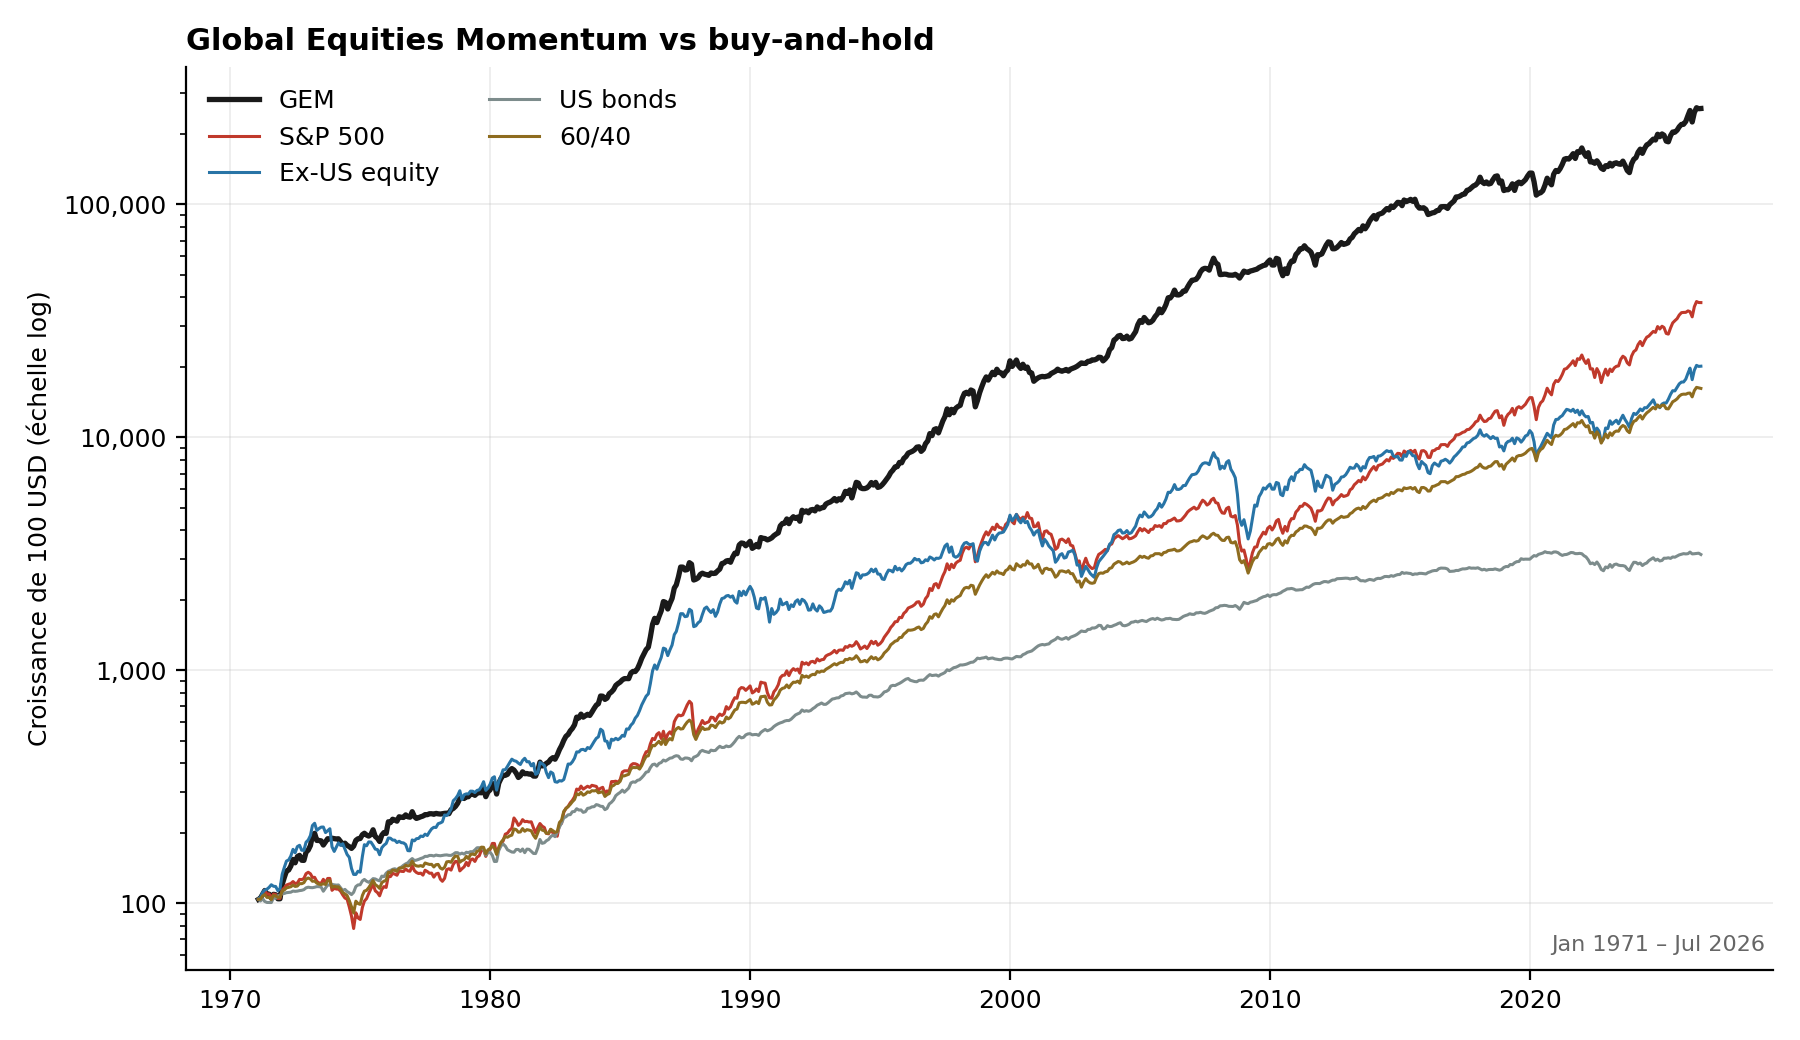
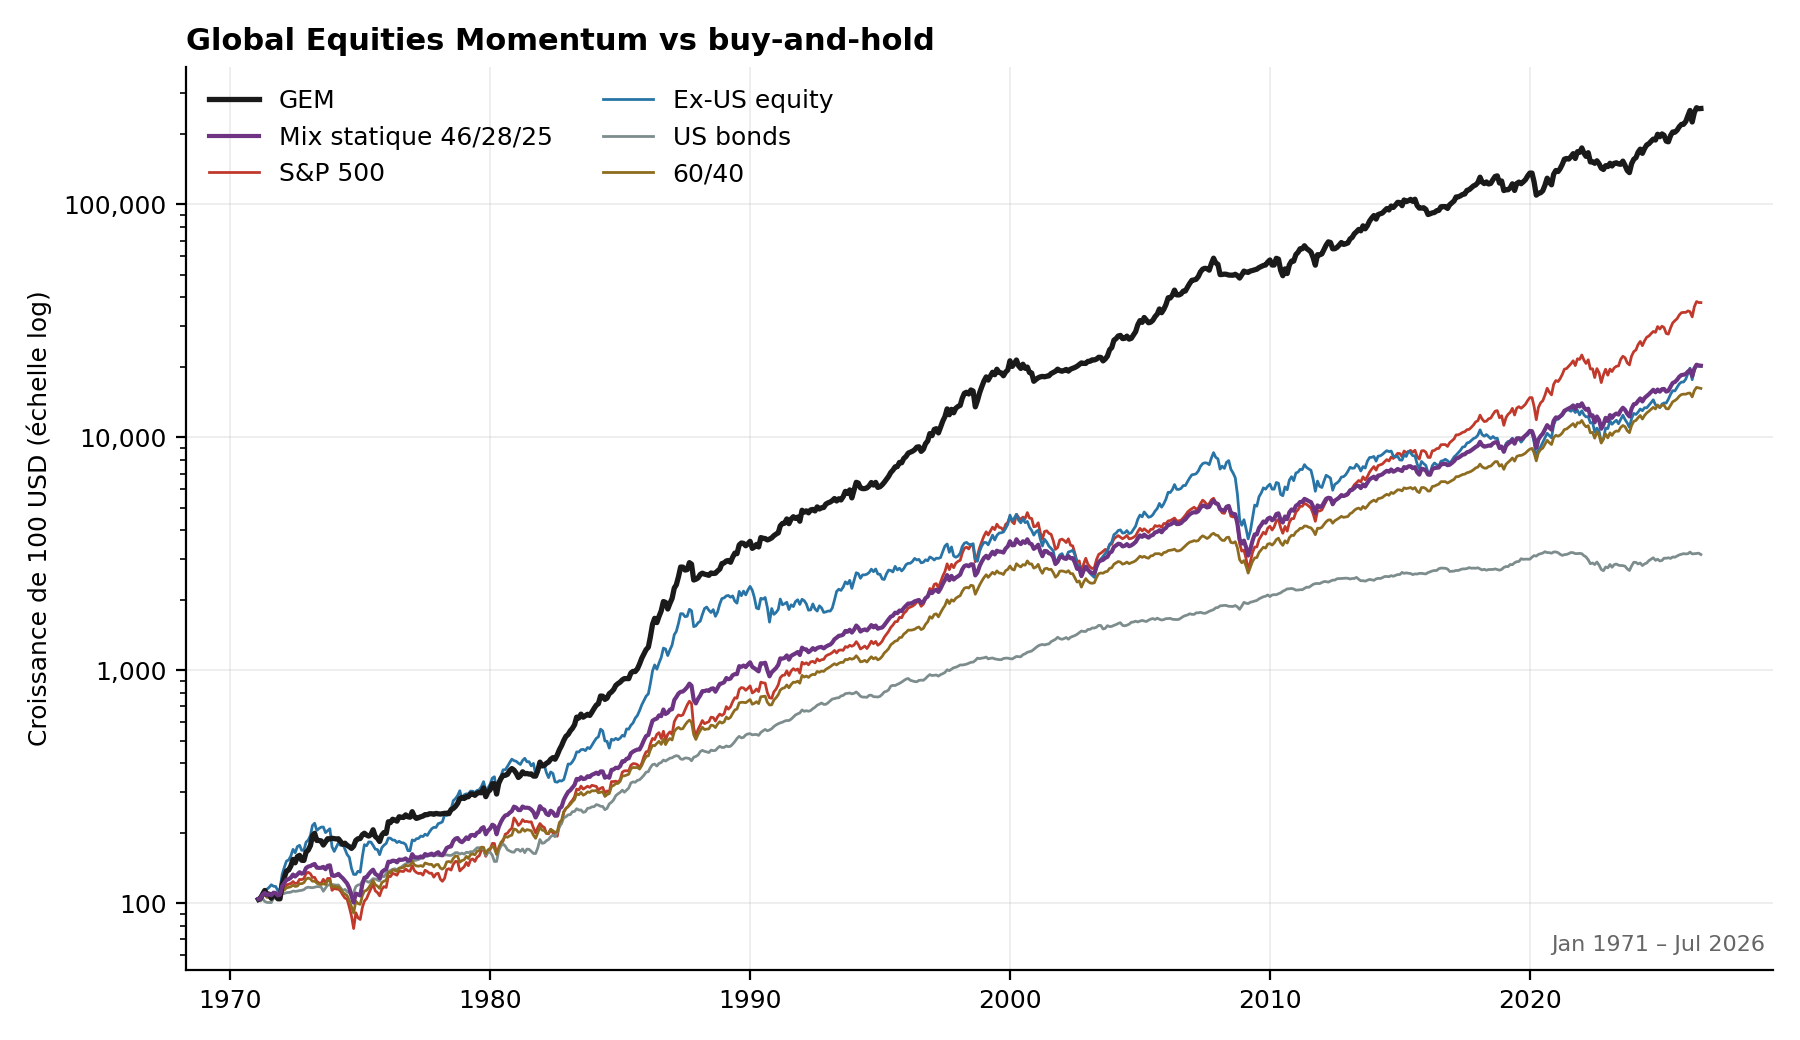
Ajout d'un benchmark statique à allocation équivalente
Sépare l'effet allocation de l'effet timing, comme le benchmark GAA de
l'article d'Antonacci.

- static_mix() : portefeuille à poids fixes rebalancé mensuellement.
- Les poids sont dérivés du backtest (46/28/25), pas codés en dur, donc ils
  suivent automatiquement tout changement de règle, de lookback ou d'échantillon.
- Ajout du GAA 45/28/27 d'Antonacci pour comparabilité avec l'article.
- Nouvelle table 07_allocation_vs_timing.csv et courbe dédiée sur la figure 1.

Résultat : le mix statique rend 10,03 %, soit 124 bps de moins que le S&P 500.
Le panier d'actifs est donc un handicap sur la période, et la totalité des
+391 bps de GEM vient du timing (+515 bps bruts, dont 124 servent à effacer le
handicap). Le drawdown se partage en revanche : -9,0 pt dus à l'allocation,
-20,3 pt de plus dus au timing.

Claude-Session: https://claude.ai/code/session_017MFJd7iz2jqCRjfZwTnaNv

diff --git a/src/gem_backtest.py b/src/gem_backtest.py
@@ -204,6 +204,22 @@ def run_rule(prices, decide, lookback=LOOKBACK, cost_bps=COST_BPS):
     return pd.Series(out, index=dates), pd.Series(held, index=dates)
 
 
+def static_mix(prices, weights, index=None):
+    """Fixed-weight portfolio, rebalanced every month.
+
+    The point of this benchmark is to hold GEM's *average* asset mix while doing
+    none of its timing. Whatever it earns is the part of GEM's return that came
+    from simply being diversified across those three assets; the remainder is
+    what the monthly switching actually added.
+    """
+    rets = prices.pct_change()
+    if index is not None:
+        rets = rets.reindex(index)
+    total = float(sum(weights.values()))
+    mix = sum(rets[asset] * (w / total) for asset, w in weights.items())
+    return mix.dropna()
+
+
 def gem_rule(row):
     """Dual momentum: absolute filter, then relative selection."""
     if row["US"] > row["TBILL"]:
@@ -229,8 +245,11 @@ def fig_equity(curves, path):
     fig, ax = plt.subplots(figsize=(9, 5.2))
     for name, r in curves.items():
         equity = 100 * (1 + r).cumprod()
+        emphasis = name == "GEM" or name.startswith("Mix statique")
         ax.plot(equity.index, equity.values, label=name,
-                color=COLORS.get(name), linewidth=1.9 if name == "GEM" else 1.1)
+                color=COLORS.get(name), linewidth=1.9 if name == "GEM"
+                else (1.5 if emphasis else 1.0),
+                zorder=3 if emphasis else 2)
     ax.set_yscale("log")
     ax.set_ylabel("Croissance de 100 USD (échelle log)")
     ax.set_xlabel("")
@@ -349,17 +368,35 @@ def main():
     bench = rets["US"]
     sixty_forty = (0.6 * rets["US"] + 0.4 * rets["BOND"])
 
+    # Static benchmark carrying GEM's own average allocation. Weights are read
+    # off the backtest rather than hard-coded, so they stay correct if the rule,
+    # the lookback or the sample ever changes.
+    shares = held.value_counts(normalize=True)
+    weights = {a: float(shares.get(a, 0.0)) for a in ("US", "EXUS", "BOND")}
+    matched = static_mix(prices, weights, index=gem.index)
+    matched_label = "Mix statique %d/%d/%d" % tuple(
+        round(weights[a] * 100) for a in ("US", "EXUS", "BOND"))
+
+    # Antonacci's own Global Asset Allocation benchmark, for comparability with
+    # the published article.
+    gaa = static_mix(prices, {"US": 0.45, "EXUS": 0.28, "BOND": 0.27},
+                     index=gem.index)
+
     curves = {
         "GEM": gem,
+        matched_label: matched,
         "S&P 500": bench,
         "Ex-US equity": rets["EXUS"],
         "US bonds": rets["BOND"],
         "60/40": sixty_forty,
     }
+    COLORS[matched_label] = "#6c3483"
 
     # ---- table 1: headline stats ---------------------------------------
     stats = pd.concat([
         performance(gem, rf, "GEM"),
+        performance(matched, rf, matched_label),
+        performance(gaa, rf, "GAA 45/28/27"),
         performance(bench, rf, "S&P 500"),
         performance(rets["EXUS"], rf, "Actions hors US"),
         performance(rets["BOND"], rf, "Obligations US"),
@@ -393,6 +430,56 @@ def main():
           % (spread["Momentum absolu seul"], spread["Momentum relatif seul"],
              spread["Momentum absolu seul"] + spread["Momentum relatif seul"],
              spread["GEM (combiné)"]))
+
+    # ---- table 2b: allocation effect vs timing effect ------------------
+    def cagr_of(r):
+        return (1 + r).prod() ** (MONTHS / len(r)) - 1
+
+    c_bench, c_mix, c_gem = cagr_of(bench), cagr_of(matched), cagr_of(gem)
+    timing = pd.DataFrame({
+        "CAGR": [c_bench, c_mix, c_gem],
+        "Volatilité": [bench.std() * np.sqrt(MONTHS),
+                       matched.std() * np.sqrt(MONTHS),
+                       gem.std() * np.sqrt(MONTHS)],
+        "Max drawdown": [drawdown_series(bench).min(),
+                         drawdown_series(matched).min(),
+                         drawdown_series(gem).min()],
+        "Corrélation avec GEM": [bench.corr(gem), matched.corr(gem), 1.0],
+    }, index=["S&P 500", matched_label, "GEM"])
+    timing["Écart vs S&P 500 (bps)"] = (timing["CAGR"] - c_bench) * 10000
+    timing.to_csv(os.path.join(TAB_DIR, "07_allocation_vs_timing.csv"))
+
+    print("\n" + "=" * 88)
+    print("TABLE 2b — Effet allocation contre effet timing")
+    print("=" * 88)
+    show = timing.copy()
+    for c in ["CAGR", "Volatilité", "Max drawdown"]:
+        show[c] = (show[c] * 100).round(2)
+    print(show.round(2).to_string())
+    print("\n  Le mix statique détient la MÊME allocation moyenne que GEM "
+          "(%.0f%% US / %.0f%% hors US / %.0f%% obligations), figée, rebalancée "
+          "chaque mois." % tuple(weights[a] * 100 for a in ("US", "EXUS", "BOND")))
+    alloc_effect = (c_mix - c_bench) * 10000
+    timing_effect = (c_gem - c_mix) * 10000
+    print("  Effet allocation (détenir ce panier, sans timing) : %+.0f bps/an"
+          % alloc_effect)
+    print("  Effet timing (ce qu'ajoute la commutation)        : %+.0f bps/an"
+          % timing_effect)
+    if alloc_effect < 0:
+        print("  -> Le panier d'actifs a COÛTÉ %.0f bps/an sur la période : hors US "
+              "et obligations ont sous-performé les actions US." % -alloc_effect)
+        print("     La totalité de la surperformance de GEM vient donc du timing, "
+              "qui doit d'abord effacer ce handicap.")
+    else:
+        print("  -> %.0f%% de la surperformance vient du timing, %.0f%% du panier."
+              % (timing_effect / (timing_effect + alloc_effect) * 100,
+                 alloc_effect / (timing_effect + alloc_effect) * 100))
+    dd_b, dd_m, dd_g = (drawdown_series(x).min()
+                        for x in (bench, matched, gem))
+    print("  Drawdown : %.1f pt de moins grâce à l'allocation, "
+          "%.1f pt de plus grâce au timing (%.1f%% -> %.1f%% -> %.1f%%)."
+          % ((dd_m - dd_b) * 100, (dd_g - dd_m) * 100,
+             dd_b * 100, dd_m * 100, dd_g * 100))
 
     # ---- table 3: regression vs benchmark ------------------------------
     reg = ols_nw((gem - rf).values, (bench - rf).values)

diff --git a/CLAUDE.md b/CLAUDE.md
@@ -145,6 +145,14 @@ Décomposition d'Antonacci : momentum absolu seul +77 bps, relatif seul +203 bps
 combiné +391 bps — les deux briques ne s'additionnent pas, ce qui est le point
 central de l'article original.
 
+Effet allocation contre effet timing (table 2b) : le mix statique portant la même
+allocation moyenne que GEM (46/28/25, figé, rebalancé mensuellement) fait 10,03 %,
+soit **124 bps de MOINS que le S&P 500**. Le panier d'actifs est donc un handicap
+sur la période — hors US et obligations ont sous-performé les actions US. La
+totalité des +391 bps vient du timing, qui doit d'abord effacer ce handicap
+(+515 bps bruts). Le drawdown, lui, se partage : −9,0 pt dus à l'allocation,
+−20,3 pt de plus dus au timing.
+
 Fait le plus important du backtest : toute la surperformance vient de 1971-2009
 (+7,7 pt/an). Sur 2010-2026 GEM perd 4,8 pt/an. La cause est mesurée : sur cette
 période la règle n'est hors du S&P 500 que 26 % du temps, mais pendant les 21

diff --git a/README.md b/README.md
@@ -26,6 +26,11 @@ Alpha annualisé 6,61 % (t = 4,31, erreurs-types Newey-West), bêta 0,57, R² 0,
 **Décomposition** — les deux briques ne s'additionnent pas : momentum absolu seul
 +77 bps, relatif seul +203 bps, combiné **+391 bps**.
 
+**Allocation contre timing** : un portefeuille statique portant la même allocation
+moyenne que GEM (46 % US / 28 % hors US / 25 % obligations, rebalancé chaque mois)
+rend 10,03 % — soit 124 bps de *moins* que le S&P 500. Le panier d'actifs est donc
+un handicap sur la période ; l'intégralité de la surperformance vient du timing.
+
 **Réserve principale** : toute la surperformance vient de 1971-2009 (+7,7 pt/an).
 Sur 2010-2026 GEM perd 4,8 pt/an face au S&P 500.
 
